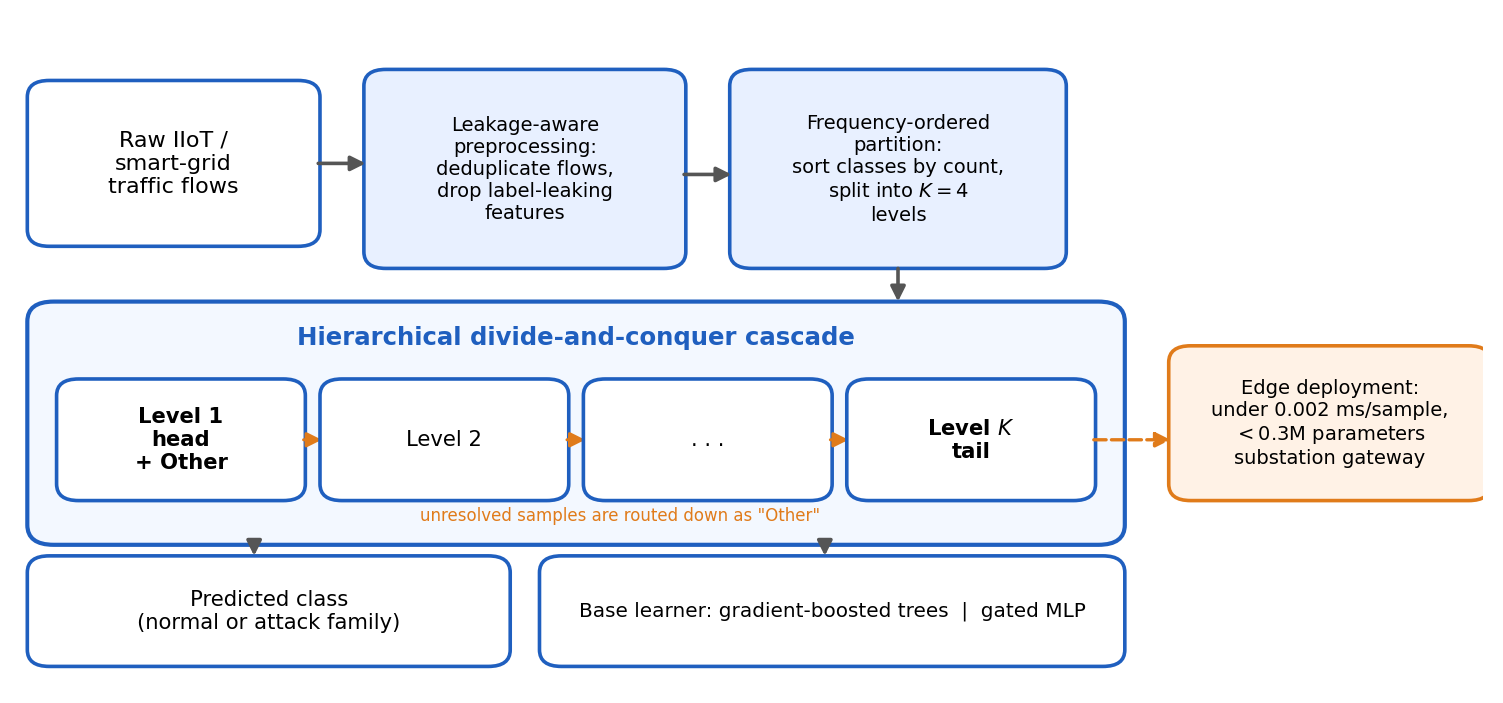
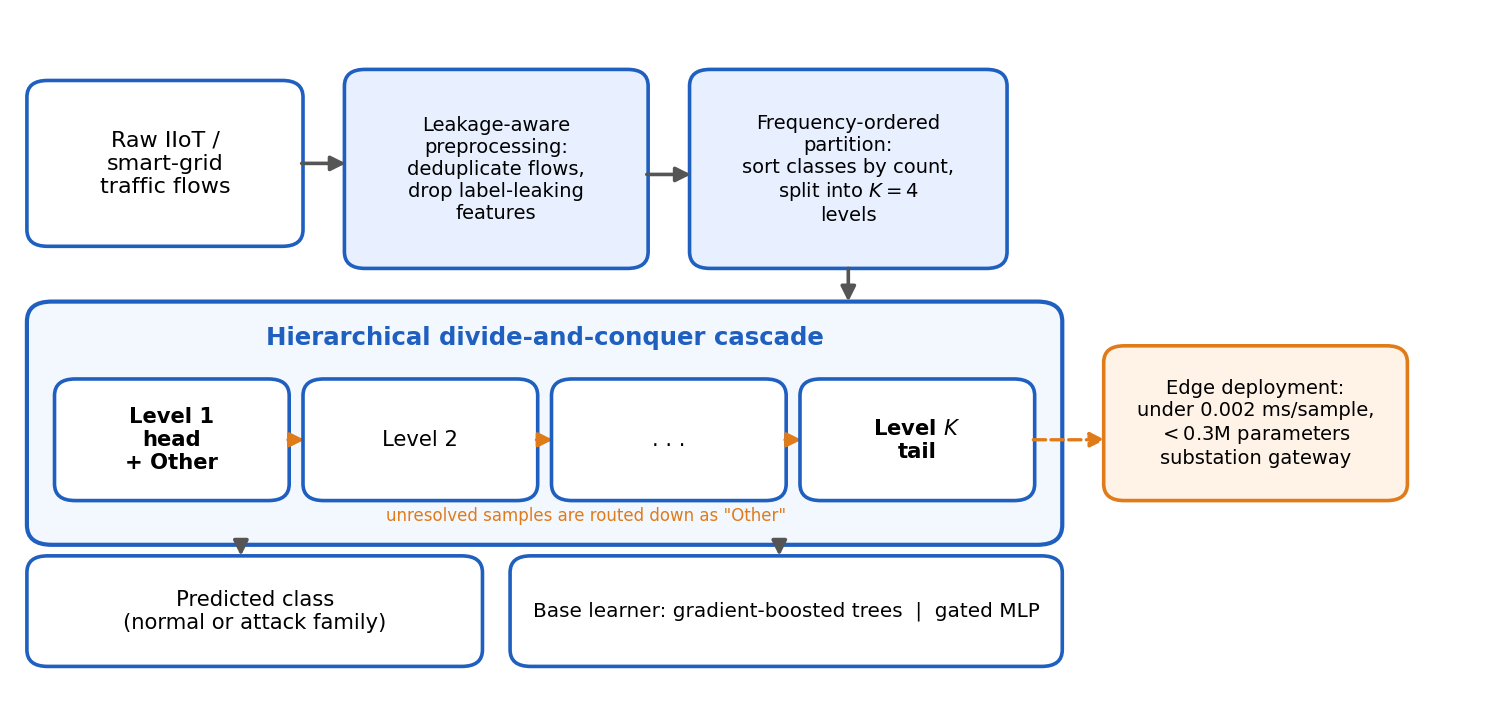
Fix framework figure right-edge clipping of edge-deployment box

diff --git a/code/framework_figure.py b/code/framework_figure.py
@@ -6,7 +6,7 @@ import matplotlib.pyplot as plt
 from matplotlib.patches import FancyBboxPatch, FancyArrowPatch
 
 fig, ax = plt.subplots(figsize=(7.4, 3.4), dpi=200)
-ax.set_xlim(0, 100)
+ax.set_xlim(0, 106)
 ax.set_ylim(0, 60)
 ax.axis("off")
 
